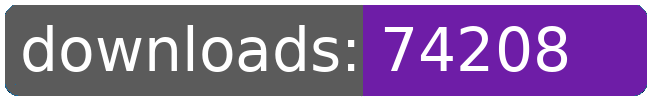
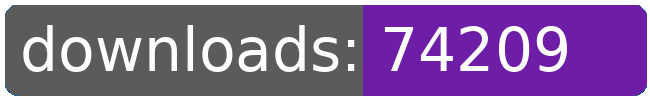
dl log written

Changed region(s): [[0.8, 0.3, 0.8923, 0.72]]

diff --git a/README.md b/README.md
@@ -21,8 +21,8 @@
 		<td>4996</td>
 		<td>5027</td>
 		<td>5056</td>
-		<td>5086</td>
-		<td>+ 30</td>
+		<td>5087</td>
+		<td>+ 31</td>
 	</tr>
 	<tr>
 		<td>aberrant.kahet.outfitter</td>
@@ -274,8 +274,8 @@
 		<td></td>
 		<td></td>
 		<td></td>
-		<td>74208</td>
-		<td>278</td>
+		<td>74209</td>
+		<td>279</td>
 	</tr>
 </table>
 </sub></sup>
@@ -300,8 +300,8 @@
 		<td>4996</td>
 		<td>5027</td>
 		<td>5056</td>
-		<td>5086</td>
-		<td>+ 30</td>
+		<td>5087</td>
+		<td>+ 31</td>
 	</tr>
 	<tr>
 		<td>aberrant.kahet.outfitter</td>
@@ -553,8 +553,8 @@
 		<td></td>
 		<td></td>
 		<td></td>
-		<td>74208</td>
-		<td>278</td>
+		<td>74209</td>
+		<td>279</td>
 	</tr>
 </table>
 </sub></sup>
